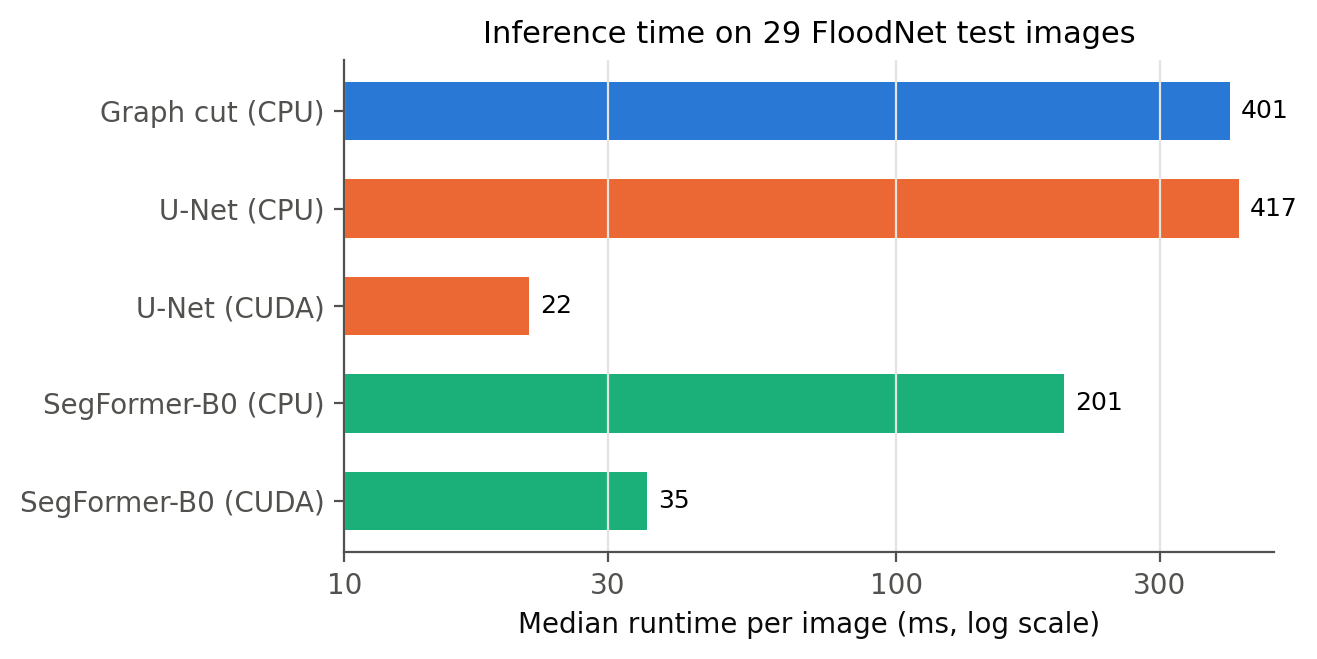
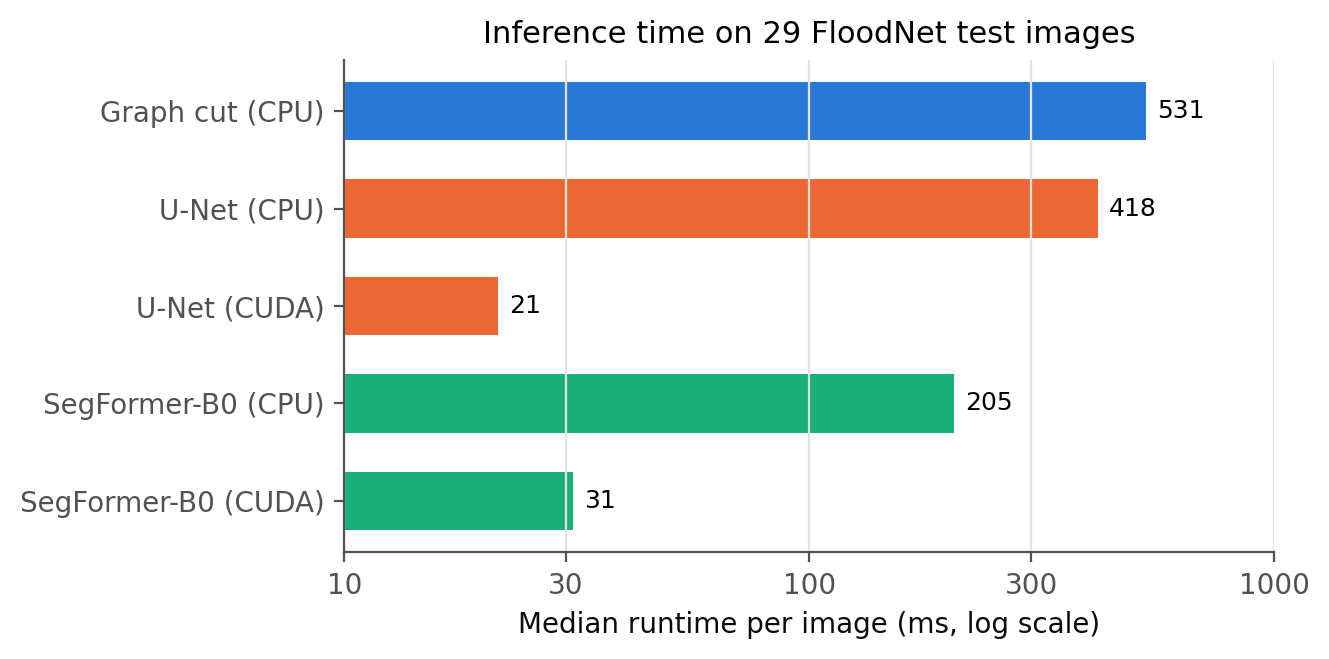
use training times measured without overlapping jobs

diff --git a/results/SUMMARY.md b/results/SUMMARY.md
@@ -6,8 +6,8 @@ Numbers only; generated by `scripts/run_experiments.py`.
 
 | method     | name         | slot            |   miou |   iou_flood |   dice |   pixel_acc |   runtime_ms | device   |   params_m |   train_min |
 |:-----------|:-------------|:----------------|-------:|------------:|-------:|------------:|-------------:|:---------|-----------:|------------:|
-| classical  | Graph cut    | A. Classical    |  58.75 |       37.17 |   0.54 |       82.37 |       408.77 | CPU      |       0    |       33.17 |
-| scratch    | U-Net        | B. From scratch |  77.91 |       62.88 |   0.77 |       93.69 |        29.54 | CUDA     |       7.76 |       53.65 |
+| classical  | Graph cut    | A. Classical    |  58.75 |       37.17 |   0.54 |       82.37 |       408.77 | CPU      |       0    |       16.2  |
+| scratch    | U-Net        | B. From scratch |  77.91 |       62.88 |   0.77 |       93.69 |        29.54 | CUDA     |       7.76 |       47.3  |
 | pretrained | SegFormer-B0 | C. Pretrained   |  84.29 |       73.57 |   0.85 |       95.61 |        41.04 | CUDA     |       3.71 |       32.85 |
 
 ## 2. Data-size ablation (FloodNet-only training, FloodNet test)
@@ -25,11 +25,11 @@ Numbers only; generated by `scripts/run_experiments.py`.
 
 | method     | name         | device   |   runtime_ms_median |   runtime_ms_p90 |   params_m |   train_min |
 |:-----------|:-------------|:---------|--------------------:|-----------------:|-----------:|------------:|
-| classical  | Graph cut    | CPU      |              401.17 |           525.21 |       0    |       33.17 |
-| scratch    | U-Net        | CPU      |              416.76 |           428.56 |       7.76 |       53.65 |
-| scratch    | U-Net        | CUDA     |               21.62 |            23.64 |       7.76 |       53.65 |
-| pretrained | SegFormer-B0 | CPU      |              201.3  |           223.86 |       3.71 |       32.85 |
-| pretrained | SegFormer-B0 | CUDA     |               35.28 |            57.7  |       3.71 |       32.85 |
+| classical  | Graph cut    | CPU      |              530.93 |           751.29 |       0    |       16.2  |
+| scratch    | U-Net        | CPU      |              417.91 |           421.91 |       7.76 |       47.3  |
+| scratch    | U-Net        | CUDA     |               21.46 |            22.46 |       7.76 |       47.3  |
+| pretrained | SegFormer-B0 | CPU      |              204.8  |           215.32 |       3.71 |       32.85 |
+| pretrained | SegFormer-B0 | CUDA     |               31.08 |            50.28 |       3.71 |       32.85 |
 
 ## 4. Domain shift: FloodNet-only vs mixed training on each test set
 
@@ -85,7 +85,7 @@ Numbers only; generated by `scripts/run_experiments.py`.
 | scratch    | train_50 |     42 |       19.34 |      7.763 |           76.52 |
 | pretrained | train_25 |     42 |       10.44 |      3.714 |           81.85 |
 | scratch    | train_25 |     42 |       10.33 |      7.763 |           75.03 |
-| classical  | train    |     42 |        8    |      0     |           70.43 |
-| classical  | mixed    |     42 |       33.17 |      0     |           61.79 |
-| scratch    | mixed    |     42 |       53.65 |      7.763 |           75.17 |
+| classical  | train    |     42 |        3.77 |      0     |           70.43 |
+| classical  | mixed    |     42 |       16.2  |      0     |           61.79 |
+| scratch    | mixed    |     42 |       47.3  |      7.763 |           75.17 |
 | pretrained | mixed    |     42 |       32.85 |      3.714 |           86.15 |
